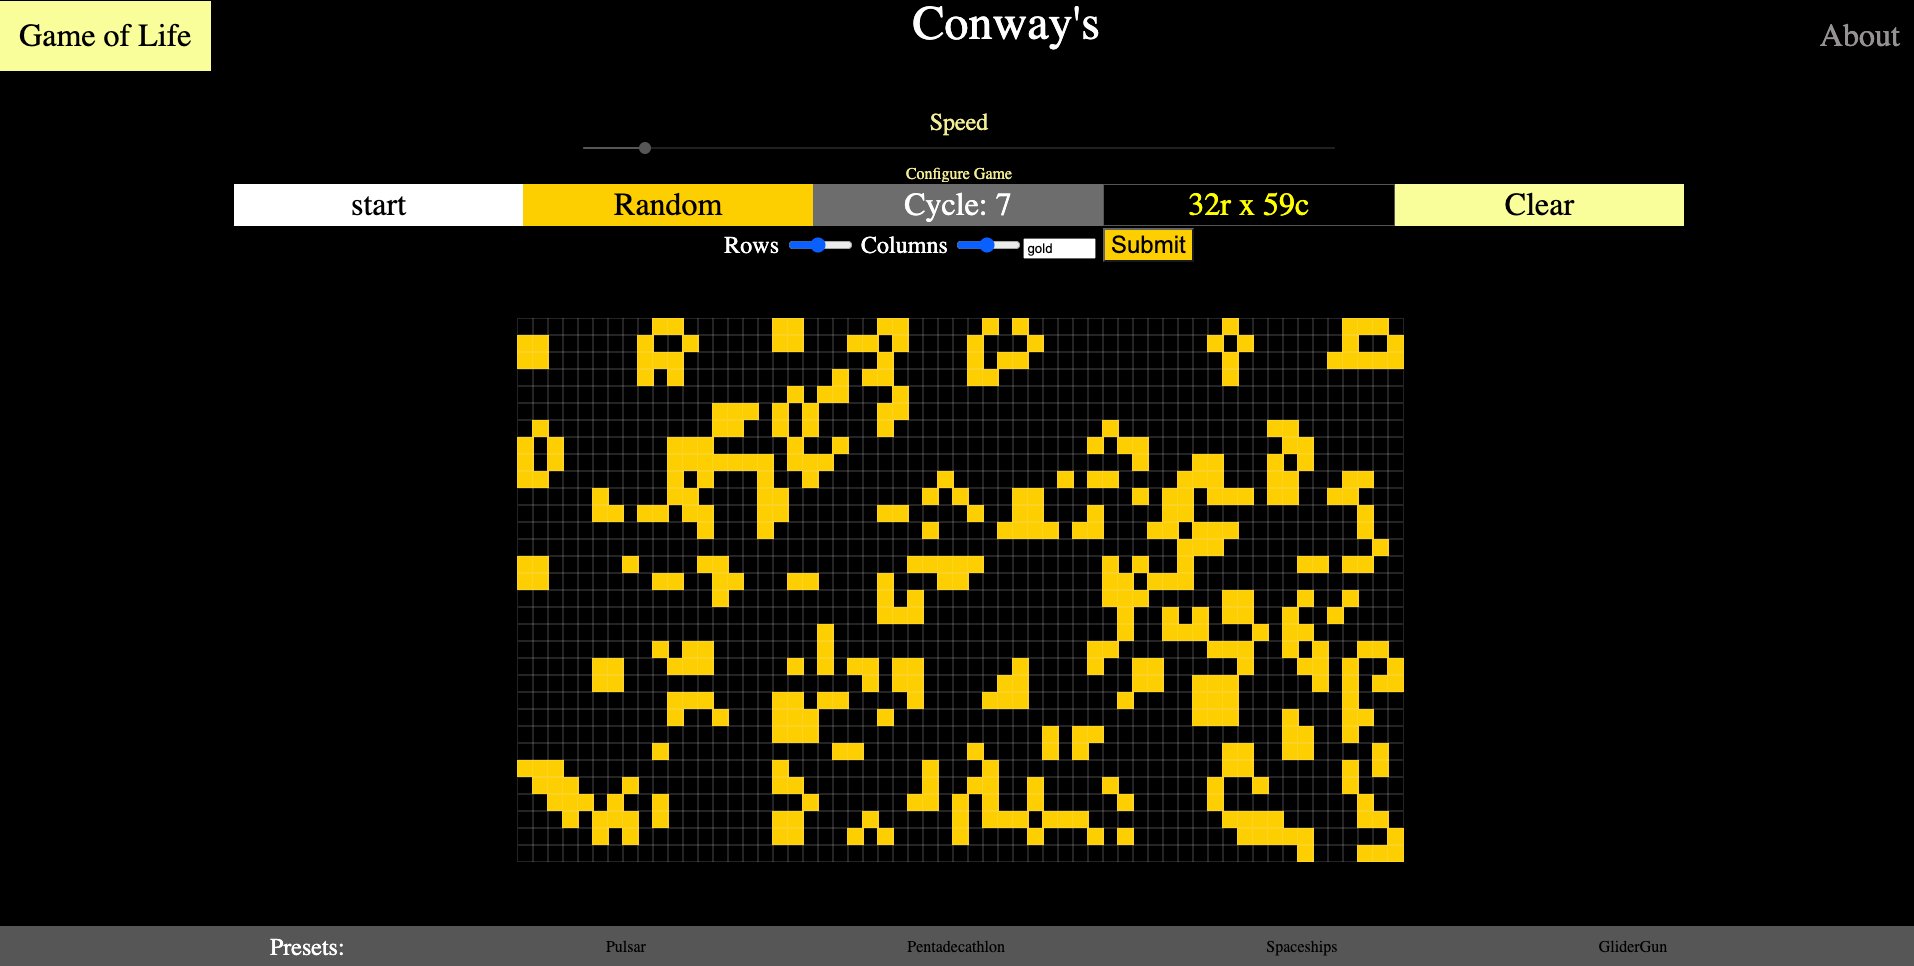
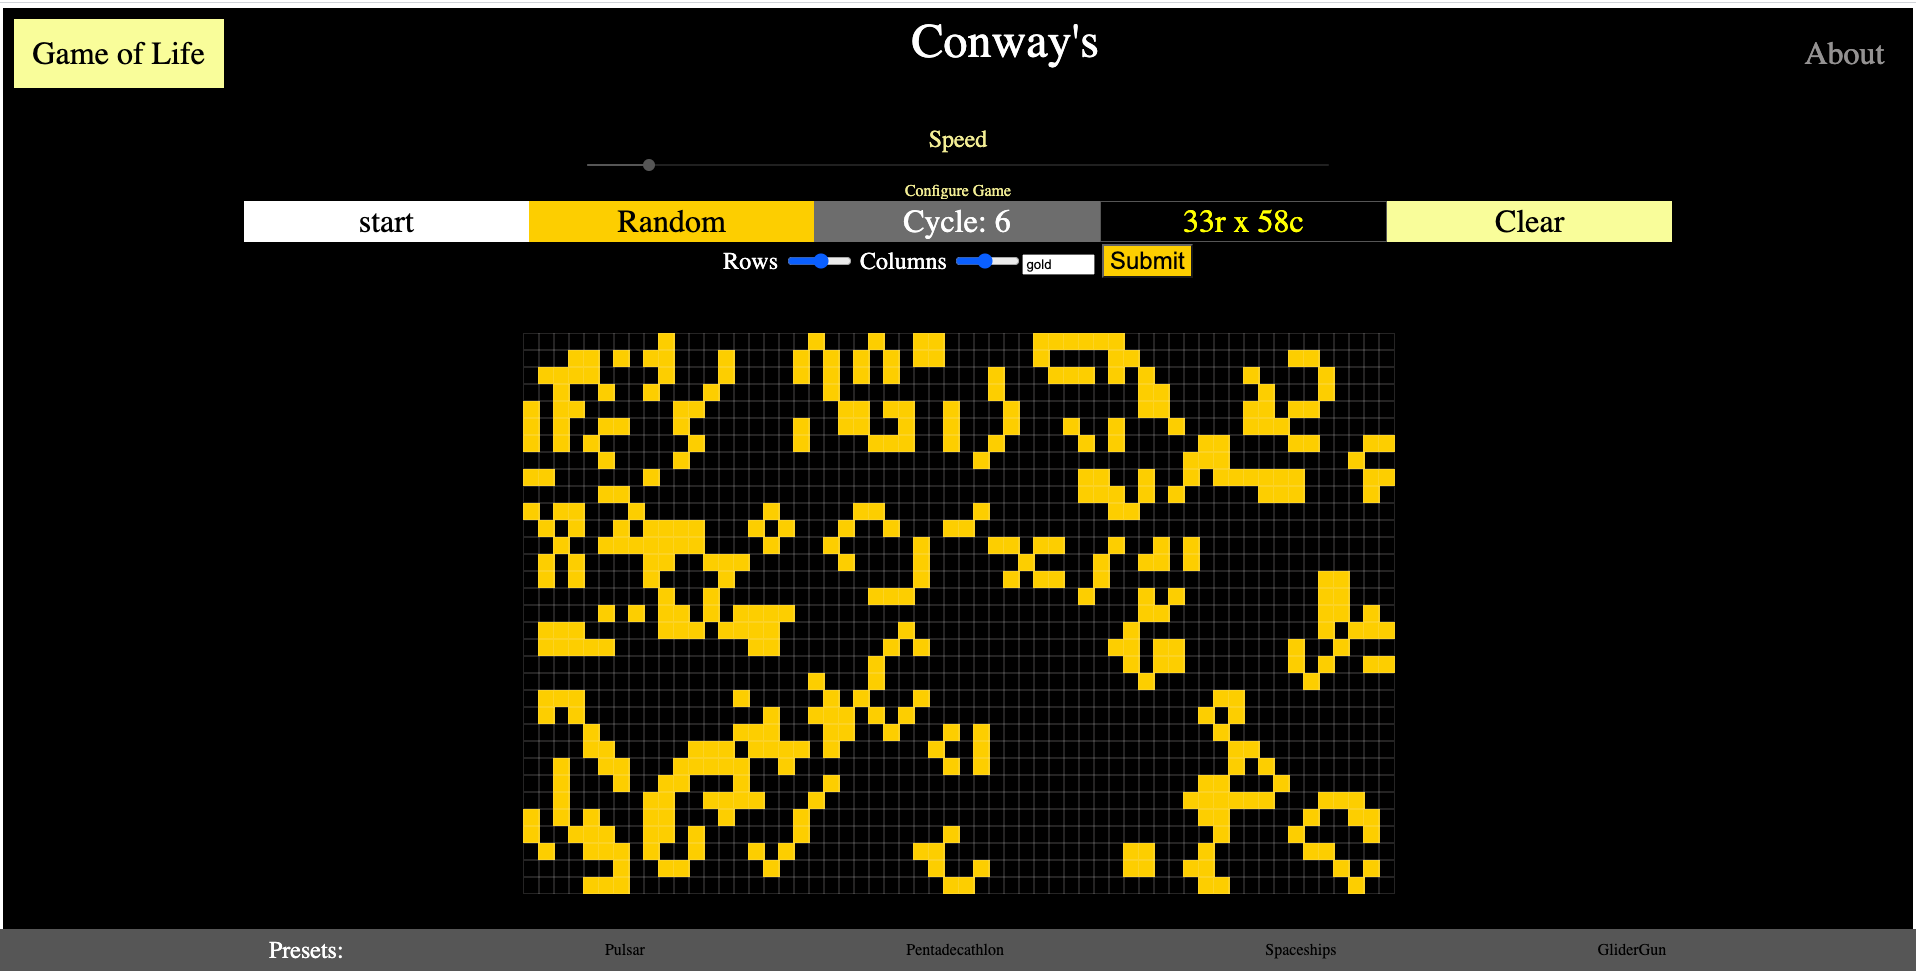
add new images for game of life

diff --git a/src/components/Projects/Life.js b/src/components/Projects/Life.js
@@ -4,7 +4,7 @@ import { Flex, Box, Image, Heading, Text, Icon, Link } from '@chakra-ui/core';
 import { FaGithub } from 'react-icons/fa';
 // Image
 import './project_images.css';
-import splash from '../../assets/Life/splash.png';
+import game from '../../assets/Life/game.png';
 import alive from '../../assets/Life/alive.png';
 
 const Life = ({ colorMode, fadeIn, fadeOut }) => {
@@ -67,7 +67,7 @@ const Life = ({ colorMode, fadeIn, fadeOut }) => {
 				// borderWidth={colorMode === 'light' ? '': '1px'}
 					size={['','2xl','4xl','6xl']} 
 					m={['0 0 55% ', '0 5% ']}>
-						<Image className='bottom' src={splash}/>
+						<Image className='bottom' src={game}/>
 						<Image className='top' src={alive} />
 					</Box>
 			</Flex>
